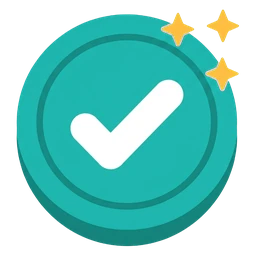
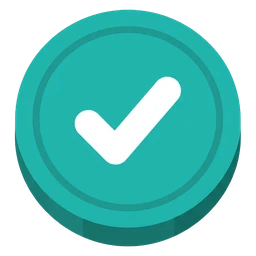
style(comemoracoes): selo de sequencia sem estrelas (opcao 3 do Flow)

diff --git a/scripts/assets/processar-icone-verde.py b/scripts/assets/processar-icone-verde.py
@@ -1,17 +1,25 @@
 # Ícone do Flow em fundo verde -> webp com transparência, recortado e quadrado.
-# Uso: python scripts/assets/processar-icone-verde.py <entrada.jpg> <saida.webp> [lado=512]
+# Uso: python scripts/assets/processar-icone-verde.py <entrada.jpg> <saida.webp> [lado=512] [--sem-amarelo]
 # Mesmo recorte por dominância do verde do braço do estetoscópio (G - max(R, B)), com a borda encolhida 1 px.
+# --sem-amarelo apaga os brilhos amarelos soltos (as estrelinhas em volta do selo).
 import sys
 import numpy as np
 from PIL import Image, ImageFilter
 
-entrada, saida = sys.argv[1], sys.argv[2]
-lado = int(sys.argv[3]) if len(sys.argv) > 3 else 512
+args = [a for a in sys.argv[1:] if not a.startswith("--")]
+sem_amarelo = "--sem-amarelo" in sys.argv
+entrada, saida = args[0], args[1]
+lado = int(args[2]) if len(args) > 2 else 512
 
 im = np.asarray(Image.open(entrada).convert("RGB")).astype(np.float32)
 r, g, b = im[..., 0], im[..., 1], im[..., 2]
 d = g - np.maximum(r, b)
 alfa = np.clip((95 - d) / 45, 0, 1)
+if sem_amarelo:
+    # amarelo: vermelho alto e azul baixo (o verde do fundo tem vermelho baixo; o teal e o branco têm azul alto)
+    amarelo = (r > 150) & (b < 140) & (r - b > 70)
+    m = Image.fromarray((amarelo * 255).astype(np.uint8)).filter(ImageFilter.MaxFilter(9))
+    alfa = alfa * (np.asarray(m) < 128)
 g2 = np.minimum(g, np.maximum(r, b) + 8)
 img = Image.fromarray(np.dstack([r, g2, b, alfa * 255]).clip(0, 255).astype(np.uint8))
 img.putalpha(img.getchannel("A").filter(ImageFilter.MinFilter(3)))
